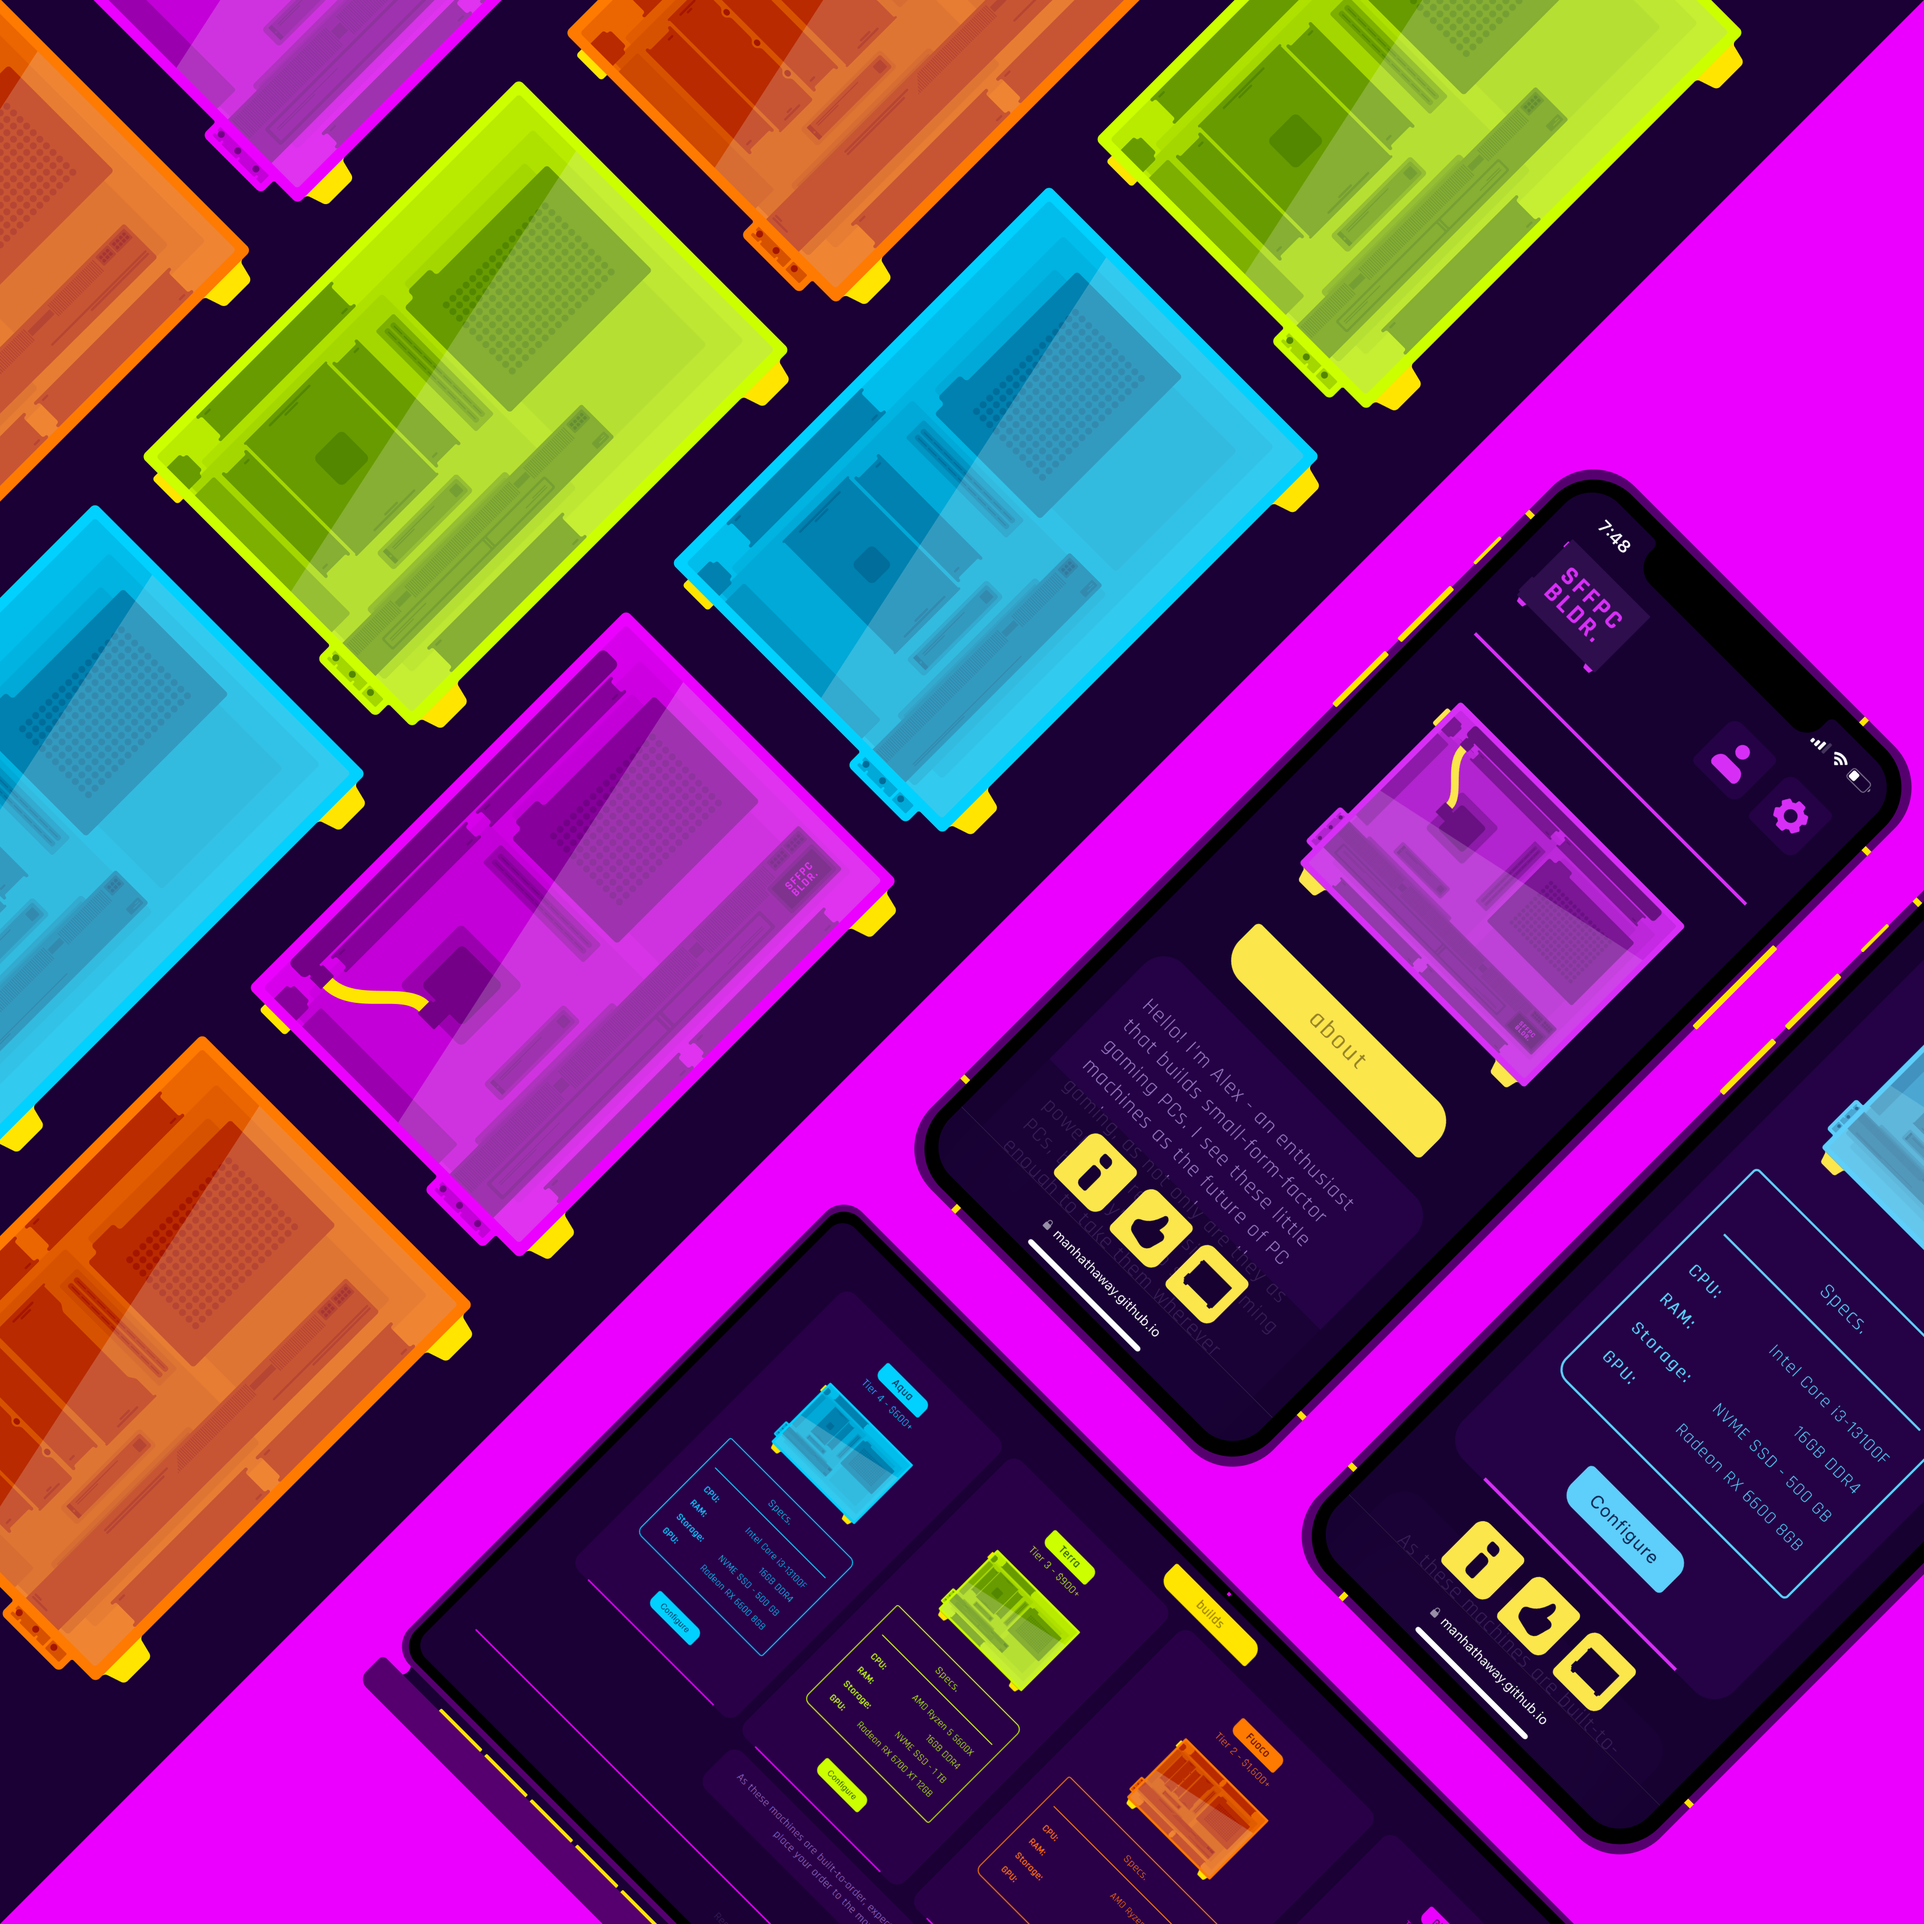
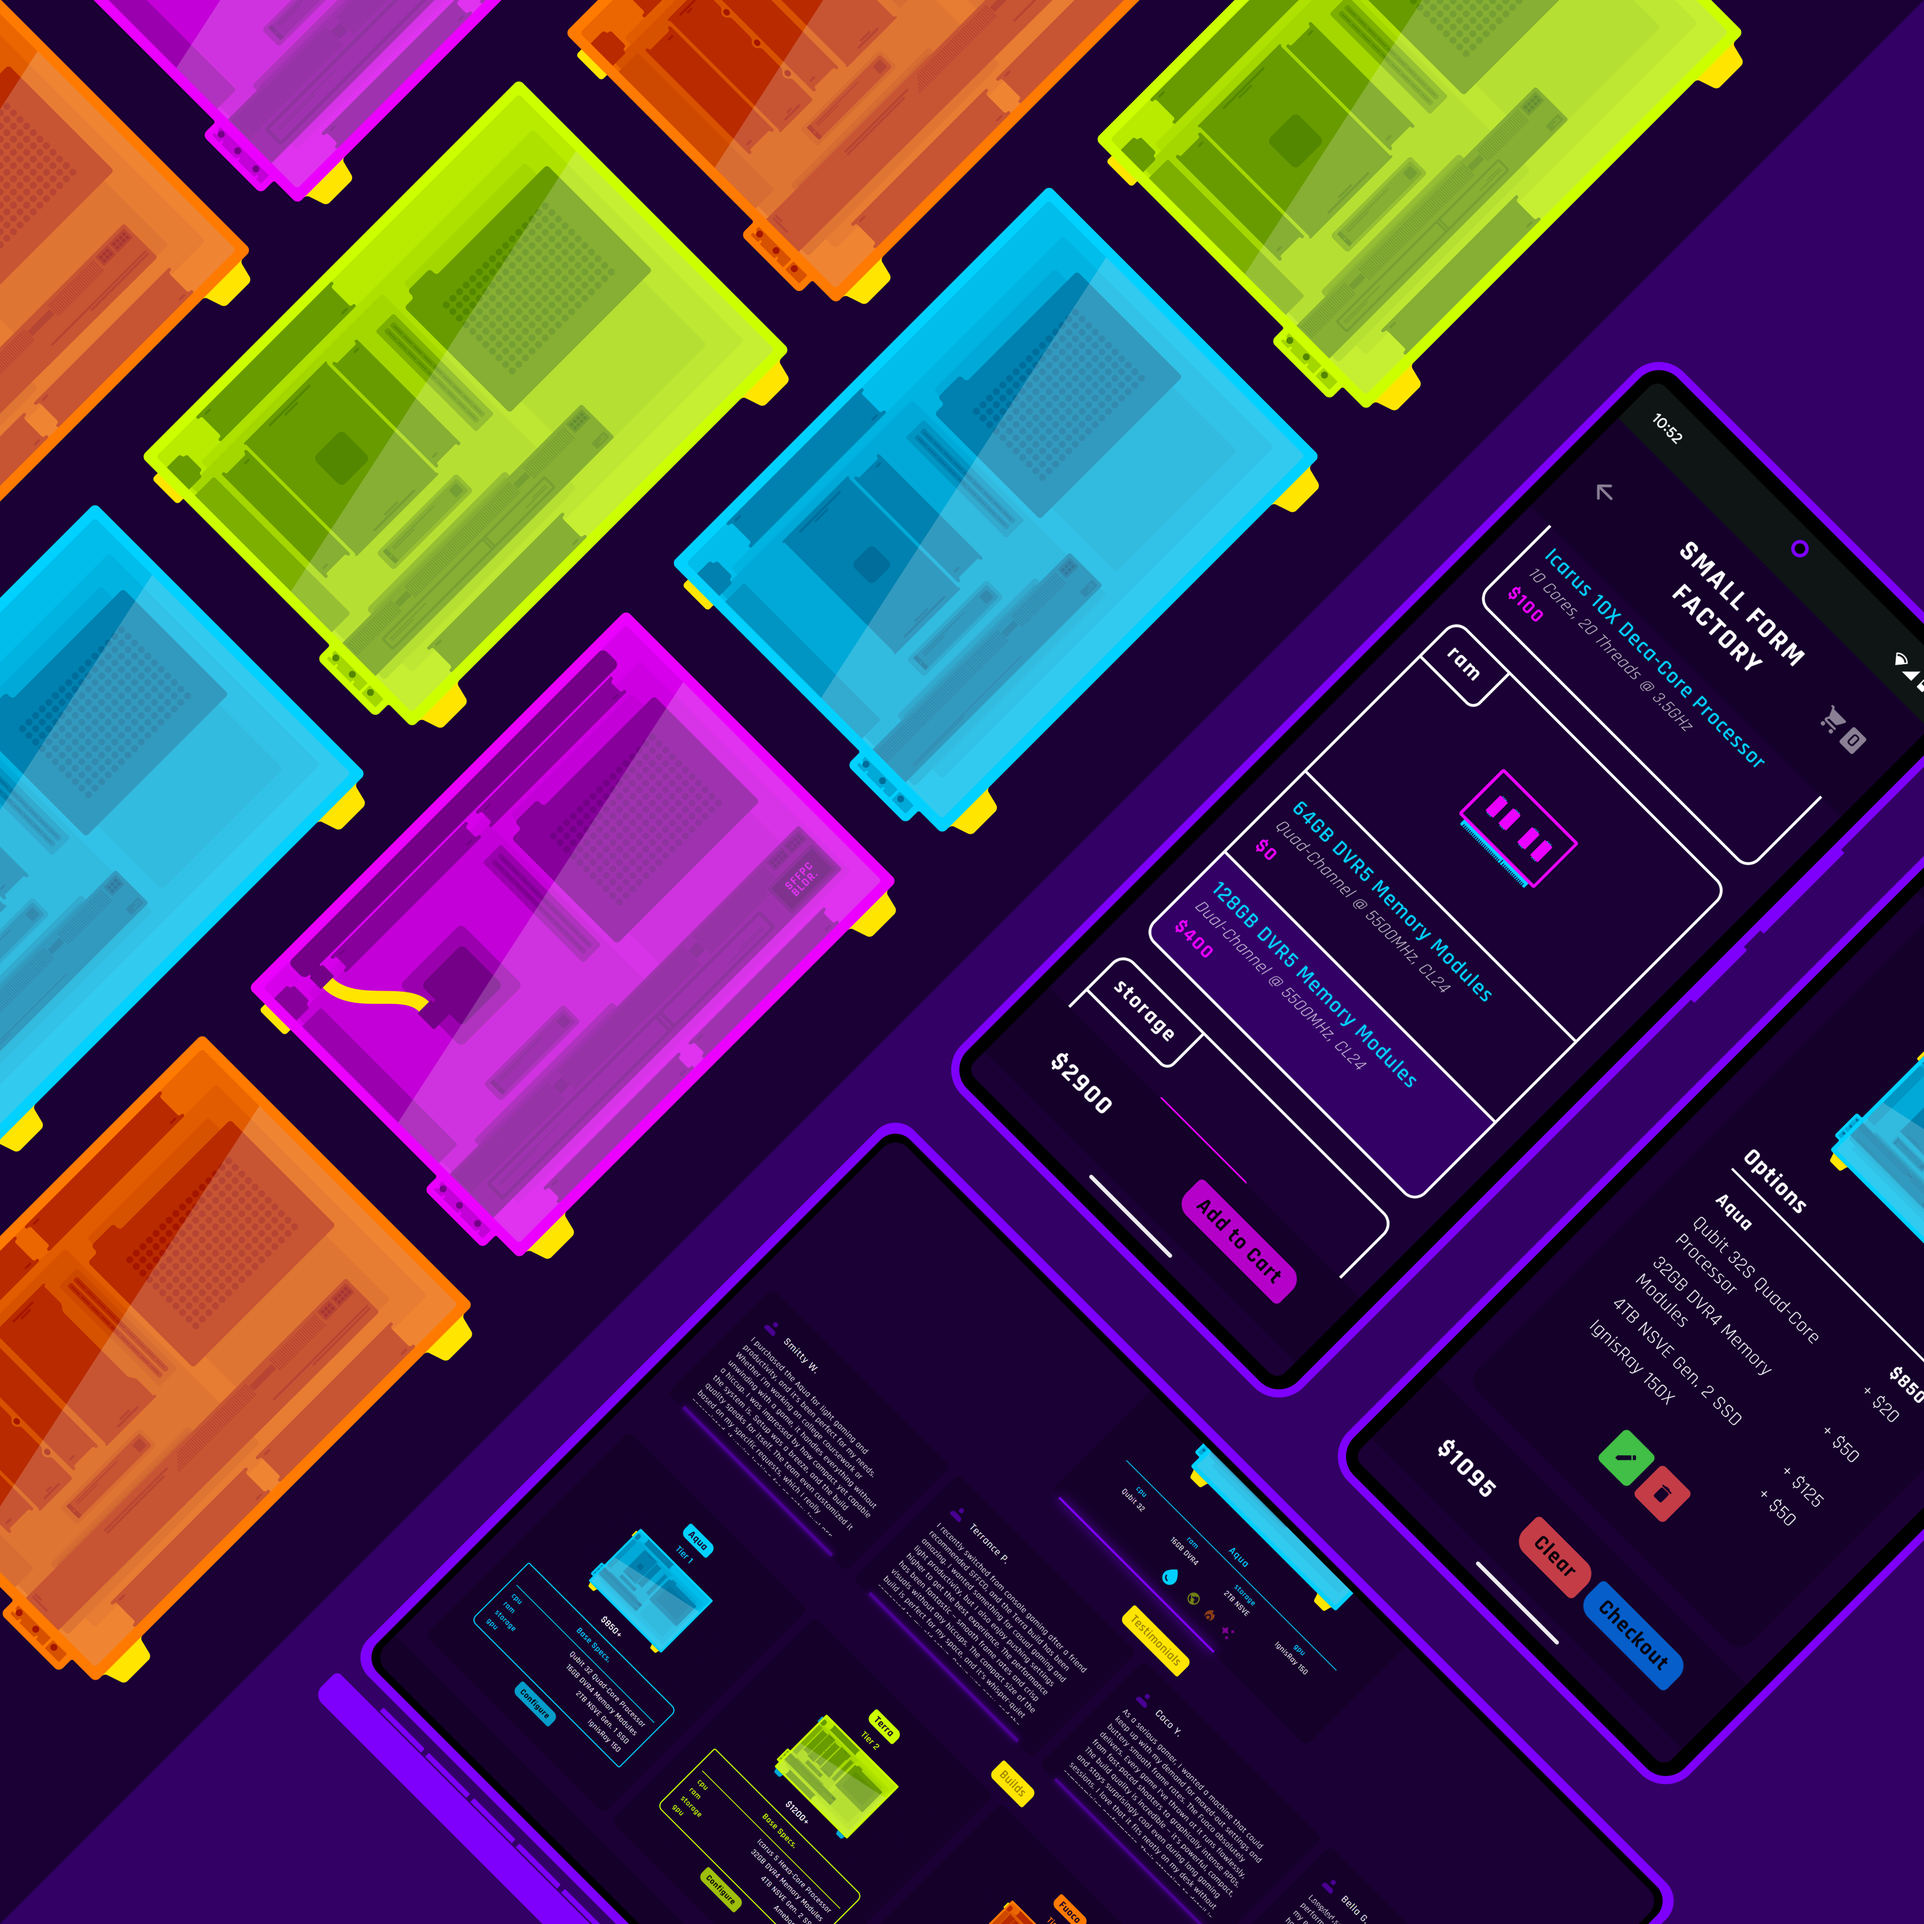
sffpc revisions

diff --git a/index.html b/index.html
@@ -301,7 +301,7 @@
                             </div>
                             <div class="projects-desc-body">
                                 <div class="projects-desc-about">
-                                    <p>A vision of my future business wherein I build and sell small-form-factor computers for customers.</p>
+                                    <p>A business that sells custom portable desktop computers in a fictional cartoonish world.</p>
                                 </div>
                                 <div class="projects-desc-info-list">
                                     <div class="projects-desc-info-line">
